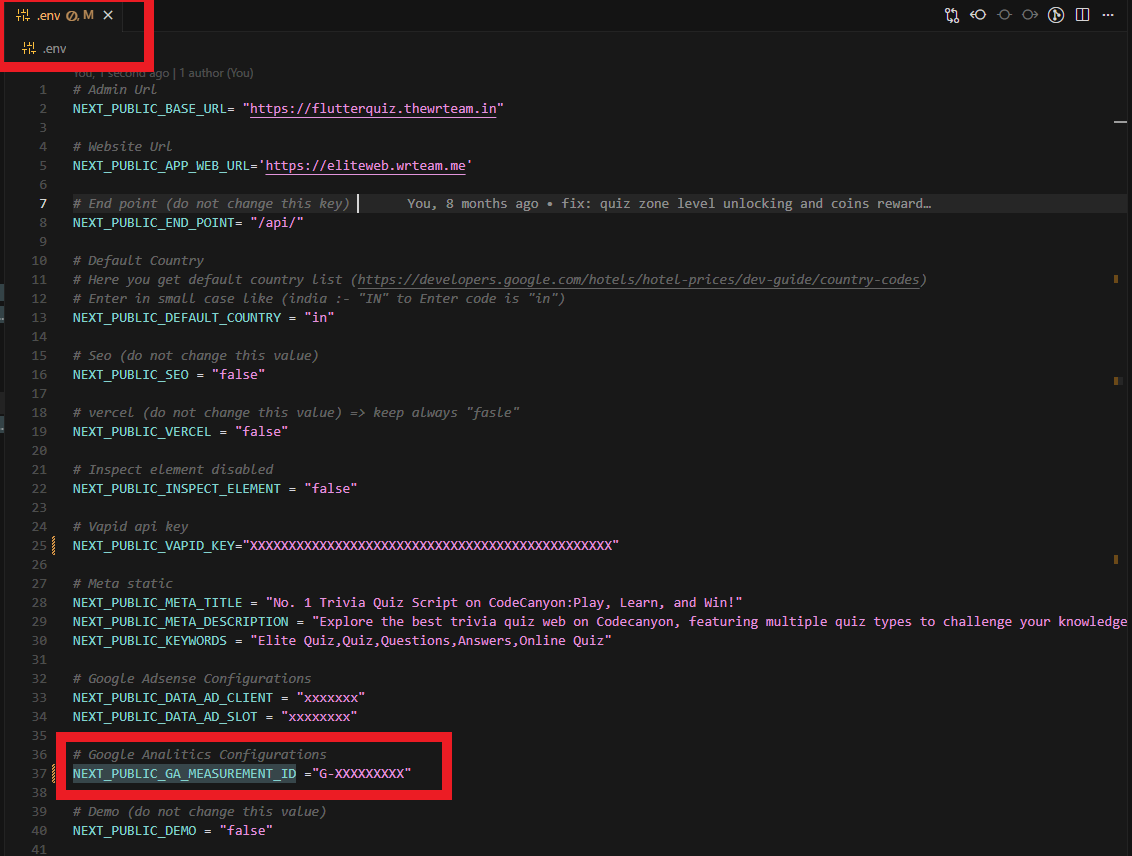
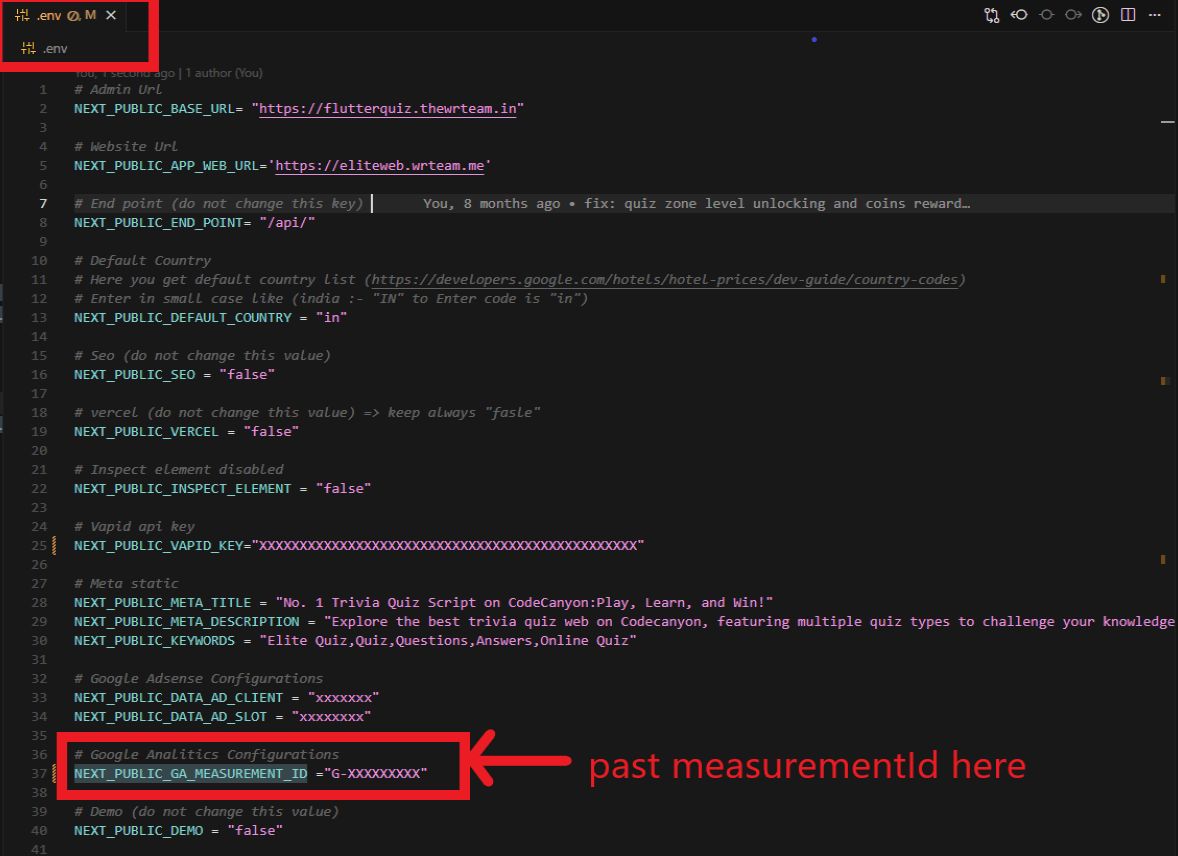
feat: add web Firebase integration documentation and related images.

diff --git a/docs/web/firebase-integration.md b/docs/web/firebase-integration.md
@@ -61,7 +61,10 @@ To help you get started quickly, we have created a video tutorial that guides yo
 ![admin panel measurementId](../../static/img/web/firebaseMeasuremetid.png)
 ![measurementId paste in .env file in code ](../../static/img/web/envFirebase.png)
 
-9. You have successfully connected your Web application to your firebase project.
+9. Log in to [Google Analytics](https://marketingplatform.google.com/about/analytics/) using the same account you used to create the Firebase project.
+![measurementId paste in .env file in code ](../../static/img/web/analycs_web.png)
+
+10. You have successfully connected your Web application to your firebase project.
 
 ## Why Firebase Is Important
 
